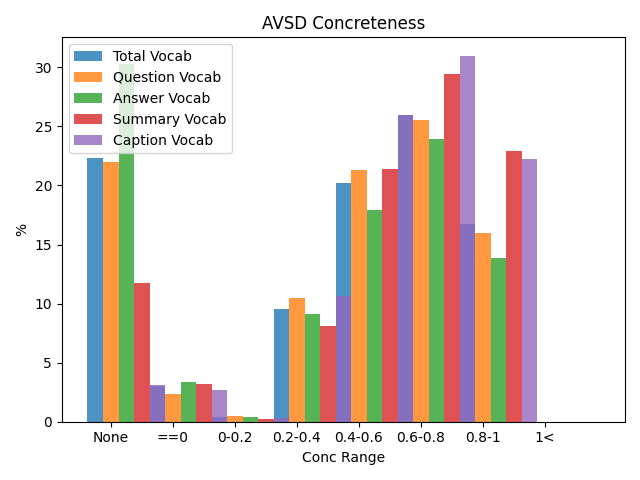
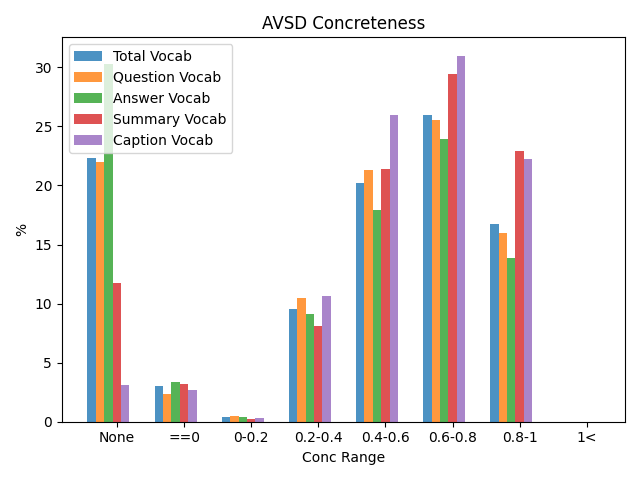
updated the AVSD plots

Changed region(s): [[0.125, 0.0938, 0.875, 0.9375], [0.9062, 0.9062, 0.9375, 0.9375]]

diff --git a/PLACEHOLDER.py b/PLACEHOLDER.py
@@ -109,6 +109,7 @@ def normdict2plot(norm_dicts, dict_labels, title="DEFAULT TITLE", xlab="DEFAULT 
     fig, ax = plt.subplots()
     index = np.arange(n_groups)
     bar_width = 1.0/n_groups
+
     opacity = 0.8
 
     # Data
@@ -124,7 +125,8 @@ def normdict2plot(norm_dicts, dict_labels, title="DEFAULT TITLE", xlab="DEFAULT 
     ) for ndict in norm_dicts ]
     #import ipdb; ipdb.set_trace() 
     colours = list(mcolors.TABLEAU_COLORS)[:len(norm_dicts)]
-    rects1 = [ plt.bar(index+(bar_width*idx), datum, bar_width, alpha=opacity, color=colours[idx], label=dict_labels[idx]) for idx, datum in enumerate(data) ]
+    offsets = [idx-(len(data)//2) for idx in range(len(data))]
+    rects1 = [ plt.bar(index+(bar_width*offsets[idx]), datum, bar_width, alpha=opacity, color=colours[idx], label=dict_labels[idx]) for idx, datum in enumerate(data) ]
     
     
     plt.xlabel(xlab)
@@ -192,7 +194,7 @@ def avsd(args):
     caption_conc_stats = vocab2norm_stats(captions_vocab, "conc-m")
 
     # Plotting
-    import ipdb; ipdb.set_trace()
+    #import ipdb; ipdb.set_trace()
     plot_dicts = [total_conc_stats, question_conc_stats, answer_conc_stats, summary_conc_stats, caption_conc_stats]
     plot_labels = [ "Total Vocab", "Question Vocab", "Answer Vocab", "Summary Vocab", "Caption Vocab"]
     normdict2plot(plot_dicts, plot_labels, title="AVSD Concreteness", xlab="Conc Range", ylab="%", 
